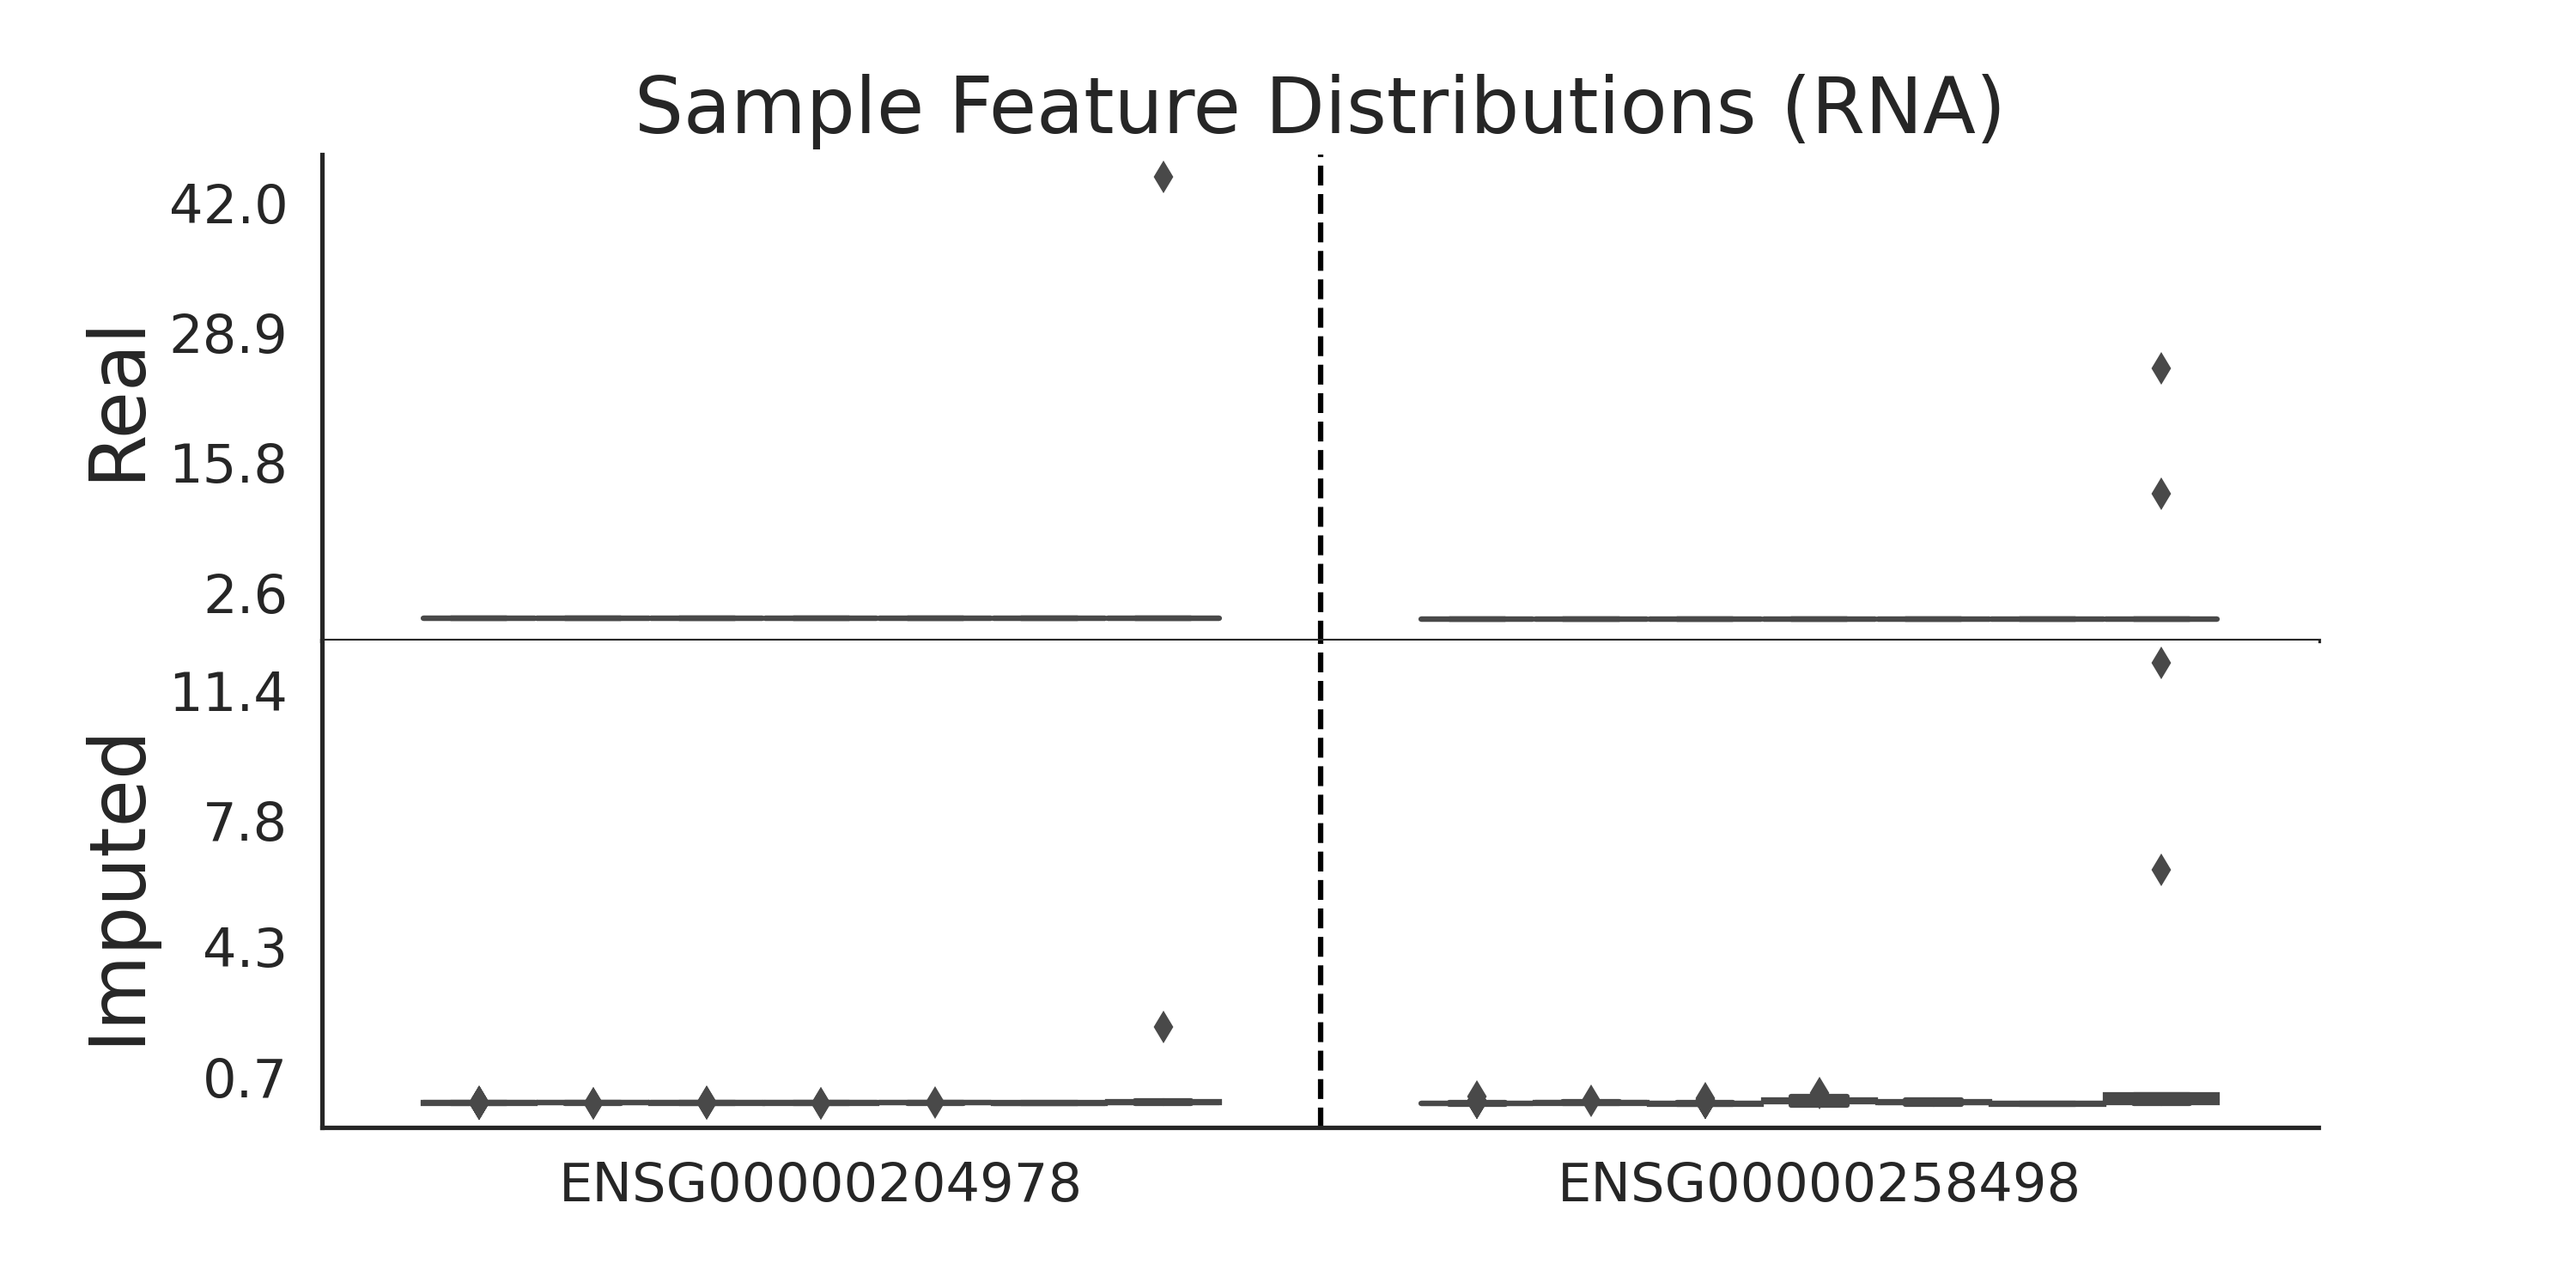
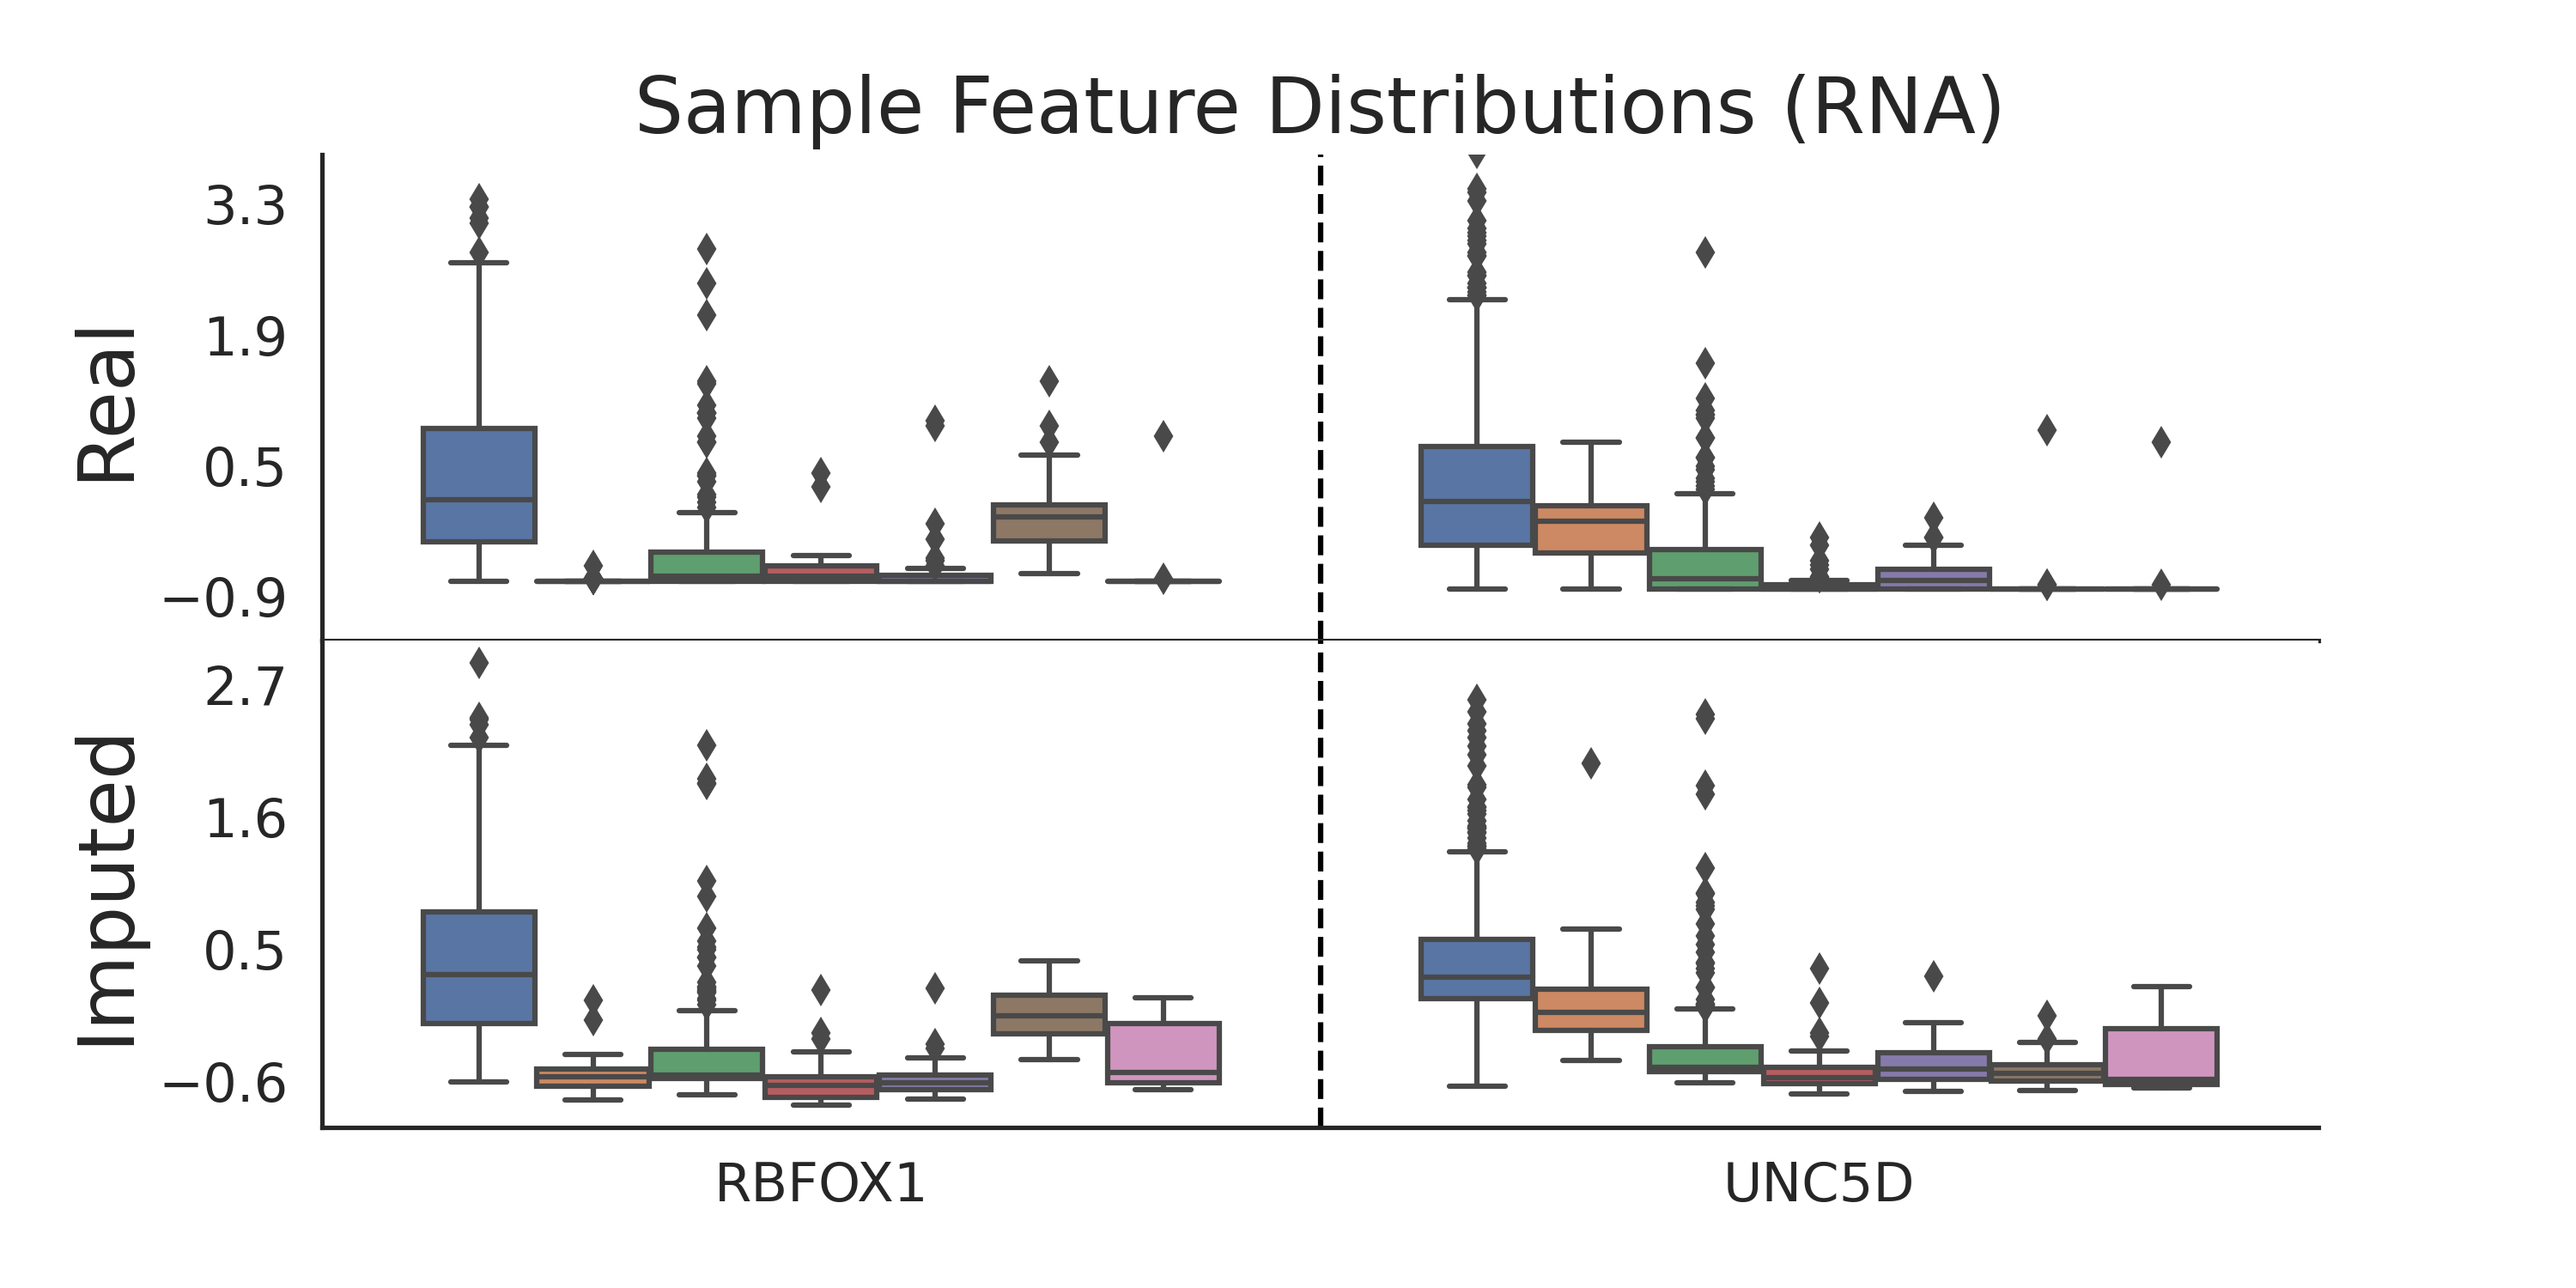
Formatting changes, rerun

diff --git a/commando/utilities.py b/commando/utilities.py
@@ -13,13 +13,32 @@ import torch.nn as nn
 import umap
 
 
-def outliers(x, threshold=3.5):
-    """Detect outliers, similar to https://stackoverflow.com/a/11886564"""
-    med = np.median(x, axis=0)
-    d = np.linalg.norm(x - med, ord=2, axis=1)
-    med_d = np.median(d)
-    mod_z = .6745 * d / med_d
-    return mod_z > threshold
+def outliers(x, leniency=1.5, aggregate=False, return_limits=False, verbose=False):
+    """Detect outliers"""
+    # https://stackoverflow.com/a/11886564
+    # , threshold=3.5
+    # med = np.median(x, axis=0)
+    # d = np.linalg.norm(x - med, ord=2, axis=1)
+    # med_d = np.median(d)
+    # mod_z = .6745 * d / med_d
+    # return mod_z > threshold
+
+    # Box and whisker type
+    Q1 = np.percentile(x, 25, axis=0, keepdims=True)
+    Q2 = np.percentile(x, 50, axis=0, keepdims=True)
+    Q3 = np.percentile(x, 75, axis=0, keepdims=True)
+    span = Q3 - Q1
+    lower_bound = Q1 - leniency * span
+    upper_bound = Q3 + leniency * span
+    if verbose:
+        print(f'Lower: {lower_bound}')
+        print(f'Upper: {upper_bound}')
+    result = (x < lower_bound) + (x > upper_bound)
+    if aggregate:
+        result = np.prod(result, axis=1)
+    if return_limits:
+        return result, (lower_bound, upper_bound, span)
+    return result
 
 
 def identity(x):
@@ -439,19 +458,33 @@ def tune_cm(cm, dataset, types, wt_size, num_search=20):
     return best_wt, best_cm_data
 
 
-def sort_by_interest(datasets, int_thresh=.8, limit=20):
+def sort_by_interest(datasets, int_thresh=.8, limit=20, remove_outliers=True):
     """Assesses datasets (real, imputed) and returns interesting indexes"""
     if limit is None:
         limit = datasets[0].shape[1]
 
     # Score by entropy and imputation performance
     # Distribution
-    X = np.linspace(0, 1, 1000)
-    distribution_true = [np.histogram(datasets[0][:, i], bins=X)[0] for i in range(datasets[0].shape[1])]
+    # X = np.linspace(0, 1, 1000)
+    if remove_outliers:
+        dataset0_features = [
+            datasets[0][~outliers(datasets[0][:, i]), i]
+            for i in range(datasets[0].shape[1])]
+    else:
+        dataset0_features = [datasets[0][:, i] for i in range(datasets[0].shape[1])]
+    distribution_true = [
+        np.histogram(d, bins=np.linspace(np.min(d), np.max(d), 100))[0] for d in dataset0_features
+    ]
     # distribution_true = [stats.rv_histogram(d) for d in distribution_true]
     # distribution_true = [[d.pdf(x) for x in X] for d in distribution_true]
     # distribution_true = [d / sum(d) for d in distribution_true]
-    distribution_pred = [np.histogram(datasets[1][:, i], bins=X)[0] for i in range(datasets[0].shape[1])]
+    distribution_pred = [
+        np.histogram(
+            datasets[1][:, i],
+            bins=np.linspace(np.min(datasets[1][:, i]),
+            np.max(datasets[1][:, i]), 100))[0]
+            for i in range(datasets[0].shape[1])
+    ]
     # distribution_pred = [stats.rv_histogram(d) for d in distribution_pred]
     # distribution_pred = [[d.pdf(x) for x in X] for d in distribution_pred]
     # distribution_pred = [d / sum(d) for d in distribution_pred]
@@ -484,7 +517,7 @@ def sort_by_interest(datasets, int_thresh=.8, limit=20):
     # ks_arr[np.isnan(ks_arr)] = 1
 
     # Order
-    temp_order = np.argsort(5e-2*entropy_arr + corr_arr)[::-1]
+    temp_order = np.argsort(5e-1*np.log(1+entropy_arr) + corr_arr)[::-1]
     # temp_order = np.argsort(ks_arr - 5e-2*np.log(entropy_arr))
 
     # Filter for interest and diversity
@@ -504,6 +537,8 @@ def sort_by_interest(datasets, int_thresh=.8, limit=20):
 
     # By raw score, raw score and diversity
     # print(entropy_arr[temp_order])
+    # print(datasets[0][:, feature_idx[0]])
+    # print(distribution_true[feature_idx[0]])
     # print(corr_arr[temp_order])
     return temp_order, feature_idx
 

diff --git a/commando/evaluation.py b/commando/evaluation.py
@@ -1224,6 +1224,9 @@ def plot_distribution_alone(
     fnames=None,
     gcf=None,
     rows=2,
+    remove_outliers=True,
+    equal_axes=False,
+    feature_dict={},
     **kwargs,
 ):
     datasets = [np.array(d) for d in datasets]
@@ -1236,12 +1239,21 @@ def plot_distribution_alone(
 
     # Destructively limit data
     names = ['Real', 'Imputed']
-    if feature_limit is not None:
-        feature_idx = sort_by_interest(datasets, limit=feature_limit)[1]
-        datasets = [data[:, feature_idx] for data in datasets]
-        for i in range(len(fnames)):
-            if fnames[i] is not None:
-                fnames[i] = fnames[i][feature_idx]
+    feature_limit = feature_limit if feature_limit is not None else datasets[0].shape[1]
+    feature_idx = sort_by_interest(datasets,
+                                   limit=feature_limit,
+                                   remove_outliers=remove_outliers)[1]
+    datasets = [data[:, feature_idx] for data in datasets]
+    # if remove_outliers:
+    #     filter = outliers(datasets[0], verbose=True)
+    #     for i in range(len(datasets)):
+    #         datasets[i][filter] = np.nan
+    #         print(np.max(datasets[i][~np.isnan(datasets[i])]))
+    for i in range(len(fnames)):
+        fnames[i] = fnames[i][feature_idx]
+        for j in range(len(fnames[i])):
+            if fnames[i][j] in feature_dict:
+                fnames[i][j] = feature_dict[fnames[i][j]]
 
     # Distribution preview
     axs = []
@@ -1254,7 +1266,7 @@ def plot_distribution_alone(
             assert False, 'Unexpected number of subplots'
         axs.append(ax)
         df = pd.DataFrame(datasets[i])
-        fname = fnames[i] if fnames[i] is not None else [f'Feature {i}' for i in range(len(df.columns))]
+        fname = fnames[i]
         fname = np.array(fname)
         df.columns = fname
         df.columns.name = None
@@ -1276,6 +1288,7 @@ def plot_distribution_alone(
             y='Value',
             hue='Type',
             ax=ax,
+            # showfliers=not remove_outliers,
         )
         for j in range(feature_limit-1):
             ax.axvline(x=j+.5, color='black', linestyle='--')
@@ -1288,10 +1301,18 @@ def plot_distribution_alone(
             ax.set_title(None)
         ax.set_ylabel(names[i])
         ax.legend([], [], frameon=False)
-    # axs_ylim = np.array([ax.get_ylim() for ax in axs])
-    # new_ylim = (axs_ylim.min(axis=0)[0], axs_ylim.max(axis=0)[1])
+    if remove_outliers:
+        for i in range(len(axs)):
+            ax = axs[i] if not equal_axes else axs[0]
+            d = datasets[i] if not equal_axes else datasets[0]
+            new_ylim = outliers(d, return_limits=True)[1]
+            stretch=1.5
+            new_ylim = (
+                np.min(new_ylim[0]-stretch*new_ylim[2]),
+                np.max(new_ylim[1]+stretch*new_ylim[2]))
+            new_ylim = (max(new_ylim[0], ax.get_ylim()[0]), min(new_ylim[1], ax.get_ylim()[1]))
+            axs[i].set_ylim(new_ylim)
     for ax in axs:
-        # ax.set_ylim(new_ylim)
         set_yticks(ax, 4)
     plt.gcf().subplots_adjust(hspace=0)
 

diff --git a/CHANGELOG.md b/CHANGELOG.md
@@ -1,4 +1,6 @@
 # 4.1.1
+- Added `feature_dict` argument to `plot_distribution_alone` for custom `xticks`
+- Additional outlier protection for `plot_distribution_alone` visualizations
 - Small fix with label formatting
 
 # 4.1.0
